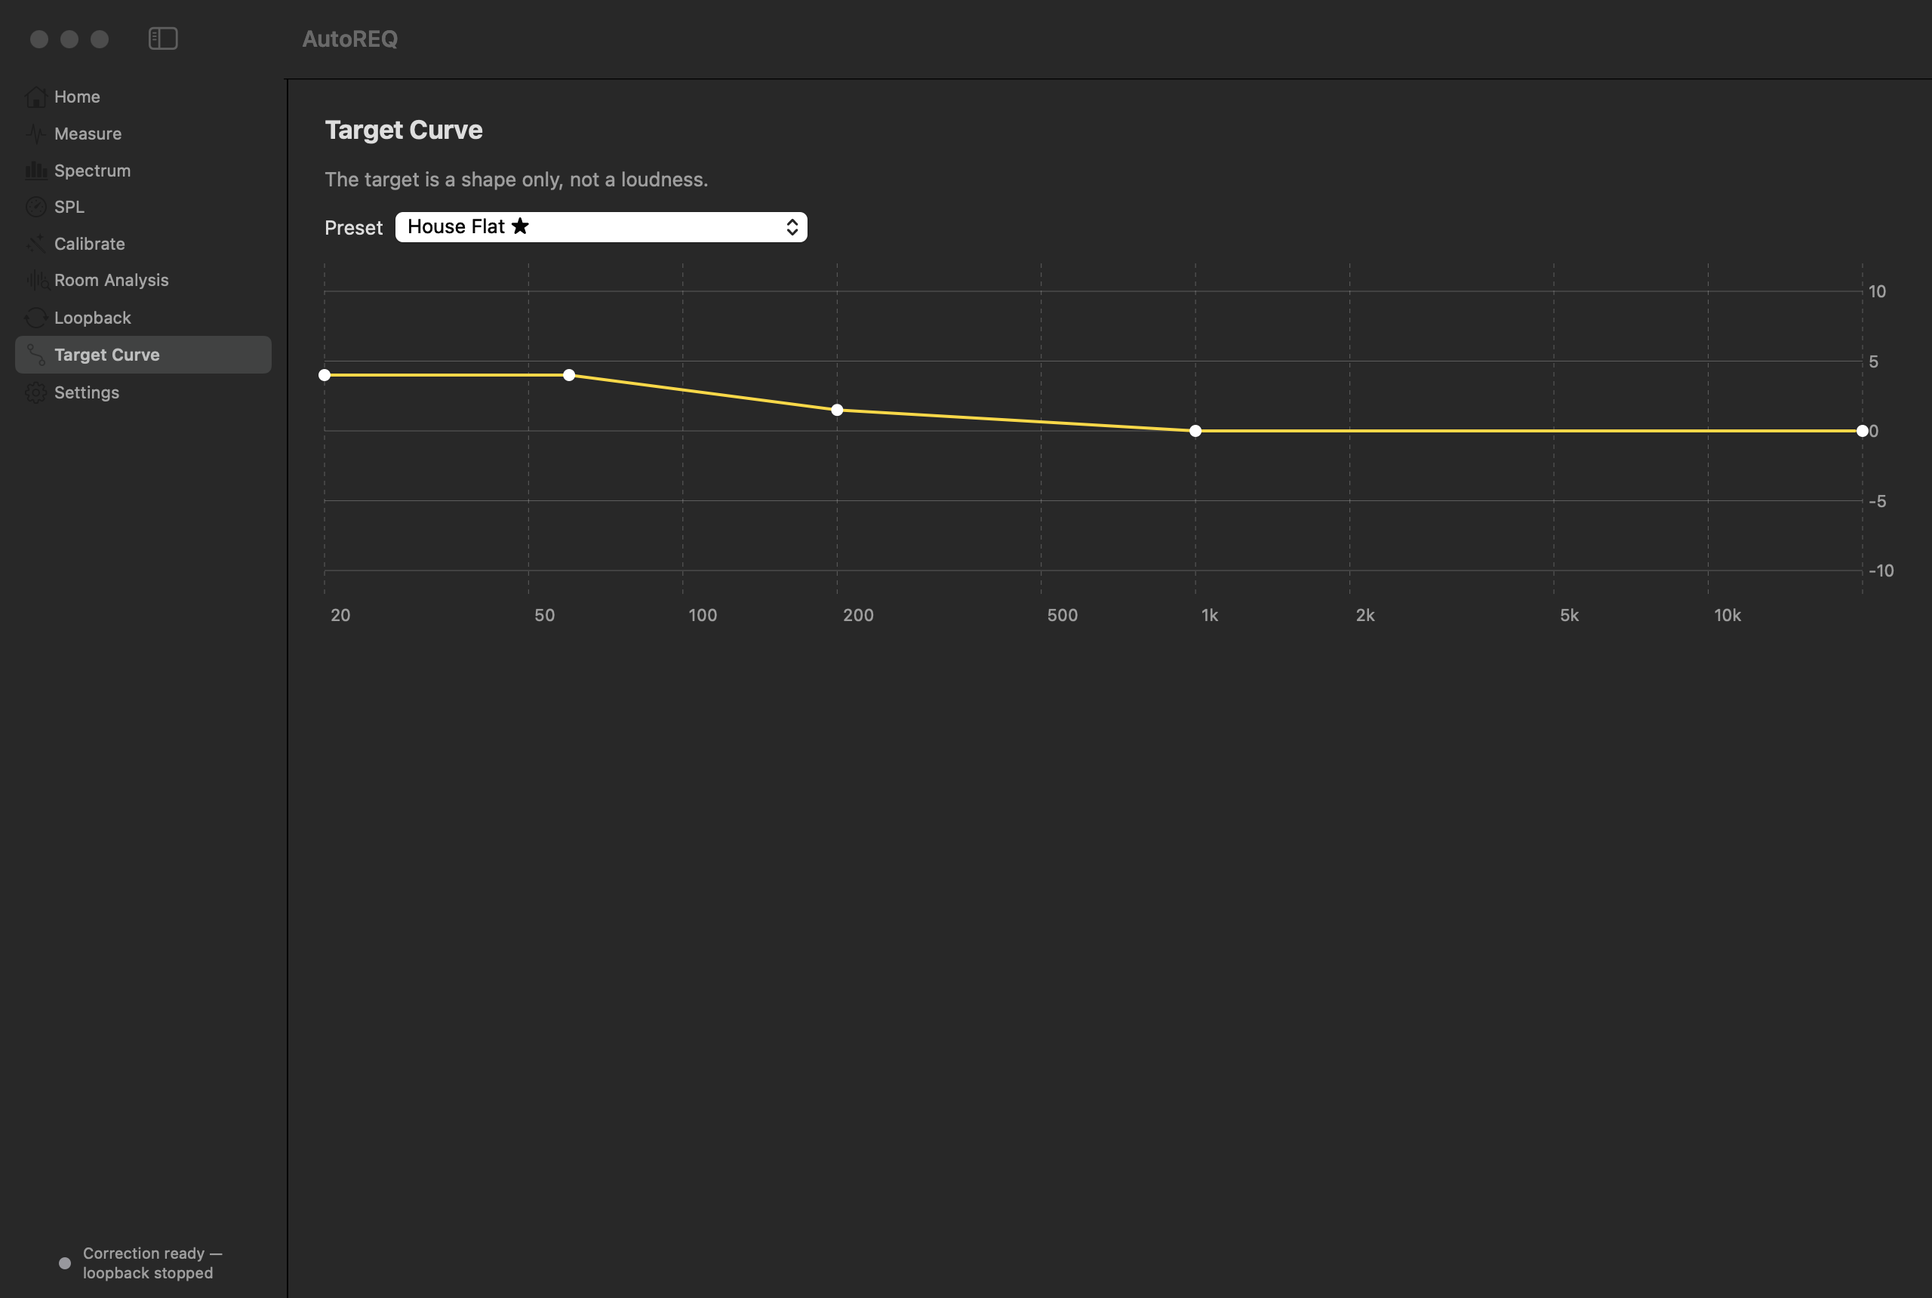
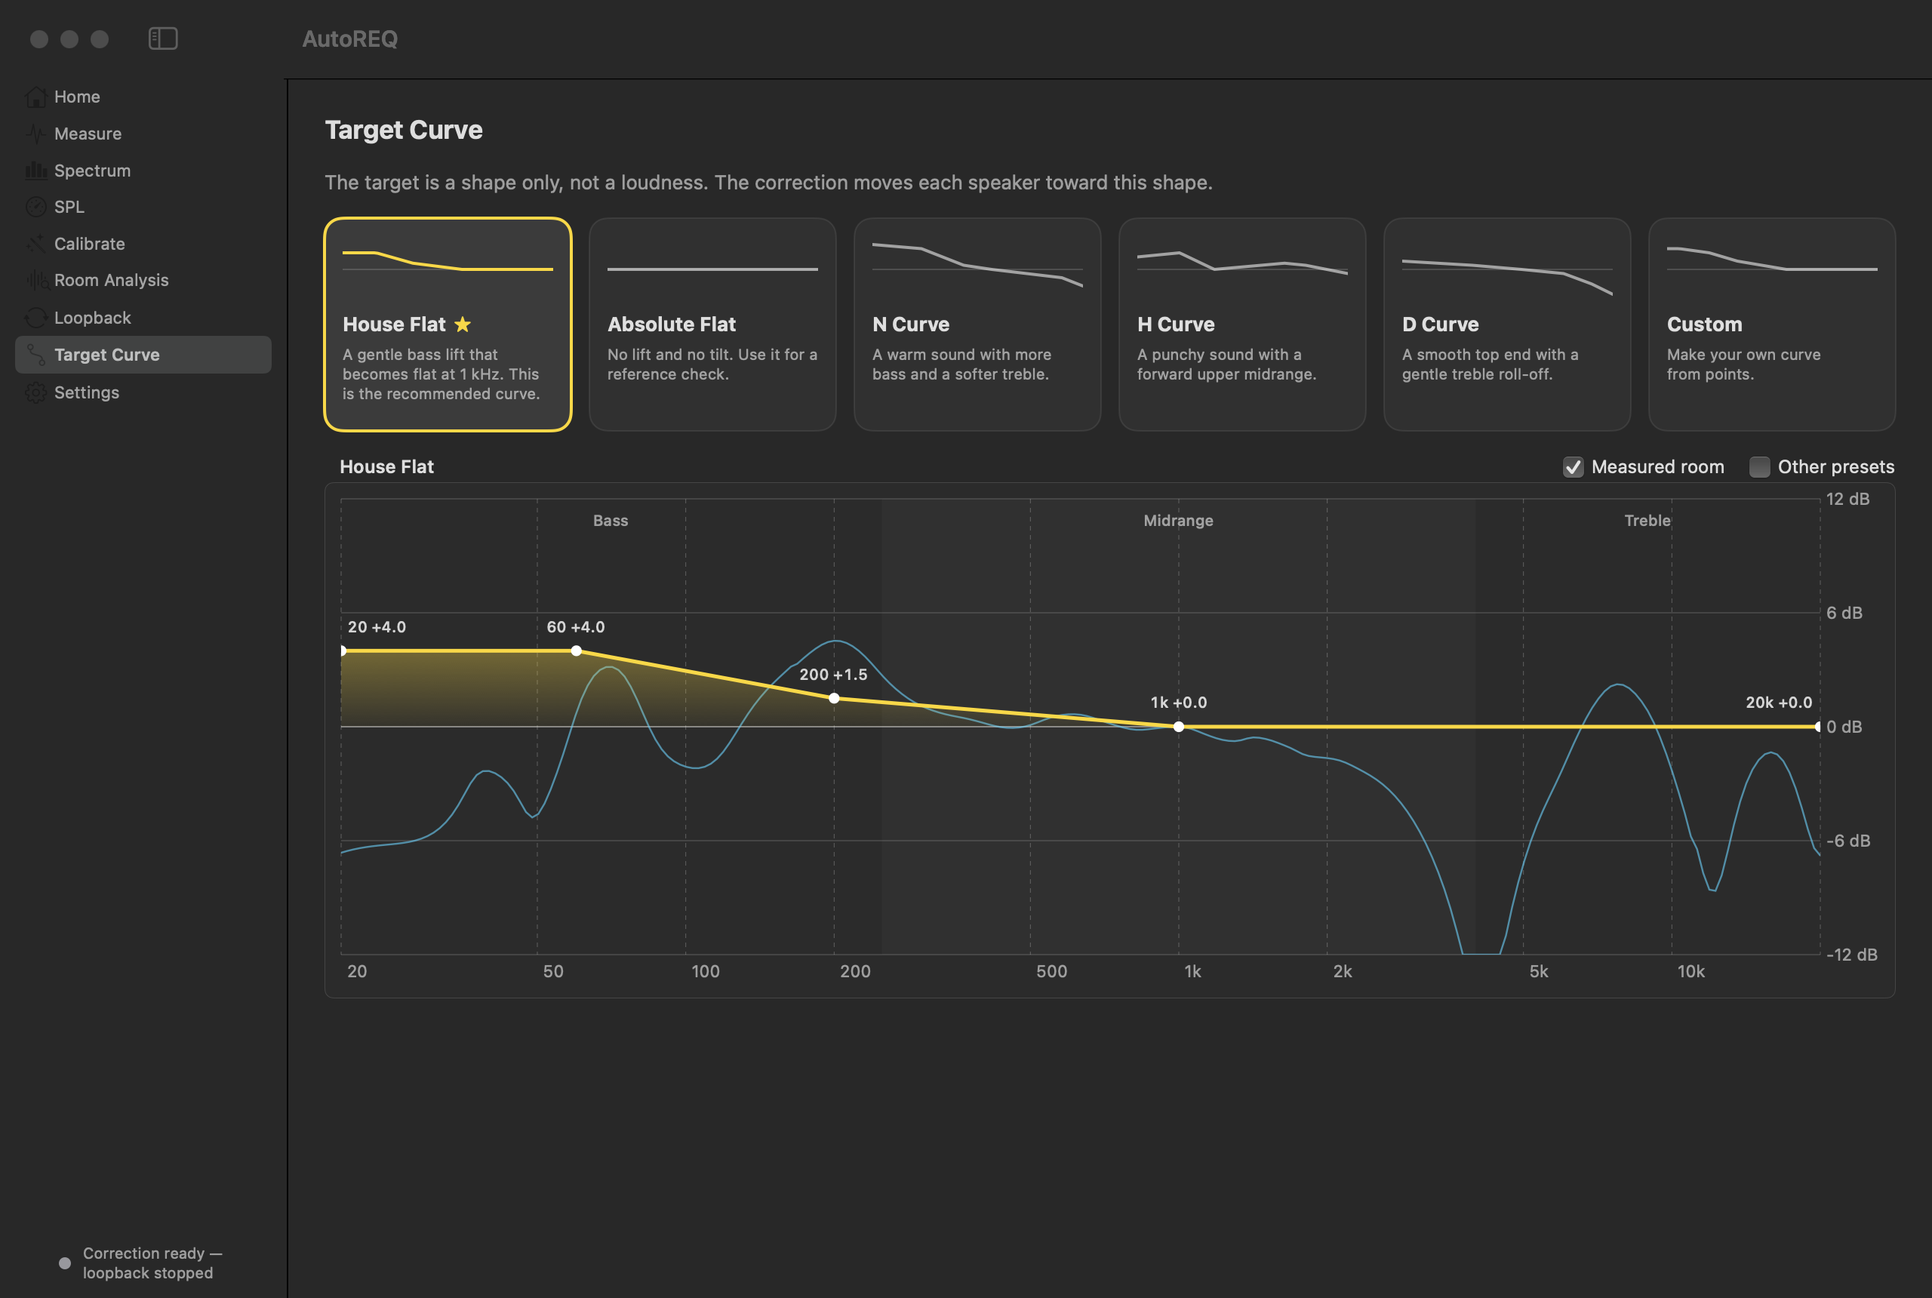
Improve the target curve screen
The Target Curve screen shows the presets as cards with a small preview of each curve.
The chart fills the area under the curve, marks the bass, the midrange and the treble,
and labels each point. It can show the measured room of the last calibration and the
other presets.

The user can drag the points of the custom curve. The app keeps the custom points
when the user selects a preset.

diff --git a/Sources/AutoREQ/Views/TargetCurveView.swift b/Sources/AutoREQ/Views/TargetCurveView.swift
@@ -1,0 +1,255 @@
+import AutoREQCore
+import Charts
+import SwiftUI
+
+/// The target curve: a gallery of the presets, a large chart and the editor of the custom curve.
+struct TargetCurveView: View {
+    @Environment(AppModel.self) private var model
+    @State private var showPresets = false
+    @State private var showRoom = true
+    @State private var dragID: UUID?
+
+    private static let notes: [String: String] = [
+        "House Flat": "A gentle bass lift that becomes flat at 1 kHz. This is the recommended curve.",
+        "Absolute Flat": "No lift and no tilt. Use it for a reference check.",
+        "N Curve": "A warm sound with more bass and a softer treble.",
+        "H Curve": "A punchy sound with a forward upper midrange.",
+        "D Curve": "A smooth top end with a gentle treble roll-off.",
+        "Custom": "Make your own curve from points.",
+    ]
+
+    /// The regions of the chart background. The labels help a user who does not read frequencies.
+    private static let regions: [(name: String, range: ClosedRange<Double>)] = [("Bass", 20...250), ("Midrange", 250...4000), ("Treble", 4000...20_000)]
+
+    private var target: TargetCurve { model.state.target }
+    private var isCustom: Bool { target.name == "Custom" }
+
+    var body: some View {
+        ScrollView {
+            VStack(alignment: .leading, spacing: 16) {
+                Text("Target Curve").font(.title2.bold())
+                Text("The target is a shape only, not a loudness. The correction moves each speaker toward this shape.")
+                    .foregroundStyle(.secondary)
+                gallery
+                chartBox
+                if isCustom { editor }
+            }
+            .padding(24)
+        }
+    }
+
+    // MARK: - Gallery
+
+    private var gallery: some View {
+        LazyVGrid(columns: [GridItem(.adaptive(minimum: 150), spacing: 12)], spacing: 12) {
+            ForEach(TargetCurve.presets + [isCustom ? target : TargetCurve.custom]) { t in
+                let selected = t.name == target.name
+                Button {
+                    if t.name == "Custom" && !isCustom { model.state.target = model.state.customTarget ?? .custom } else if !selected { model.state.target = t }
+                } label: {
+                    VStack(alignment: .leading, spacing: 6) {
+                        Sparkline(curve: t, color: selected ? .yellow : .secondary).frame(height: 44)
+                        HStack(spacing: 4) {
+                            Text(t.name).bold()
+                            if t == .houseFlat { Image(systemName: "star.fill").font(.caption).foregroundStyle(.yellow) }
+                        }
+                        Text(Self.notes[t.name] ?? "").font(.caption).foregroundStyle(.secondary)
+                            .multilineTextAlignment(.leading).fixedSize(horizontal: false, vertical: true)
+                        Spacer(minLength: 0)
+                    }
+                    .padding(12)
+                    .frame(maxWidth: .infinity, minHeight: 130, alignment: .topLeading)
+                    .background(.white.opacity(selected ? 0.09 : 0.04), in: RoundedRectangle(cornerRadius: 12))
+                    .overlay(RoundedRectangle(cornerRadius: 12).stroke(selected ? Color.yellow : .white.opacity(0.08), lineWidth: selected ? 2 : 1))
+                }
+                .buttonStyle(.plain)
+            }
+        }
+    }
+
+    // MARK: - Chart
+
+    private struct CurvePoint: Identifiable {
+        var id: String { "\(series)-\(frequency)" }
+        var series: String
+        var frequency: Double
+        var gain: Double
+    }
+
+    private static let frequencies: [Double] = (0...240).map { 20 * pow(1000, Double($0) / 240) }
+
+    /// The measured system response before the correction, 1/3-octave smoothed, with 0 dB at 1 kHz.
+    private var room: [CurvePoint] {
+        guard showRoom, let r = model.state.result?.systemBefore else { return [] }
+        let s = Smoothing.oct3.apply(r)
+        let ref = s.magnitudeDB[FrequencyGrid.index(of: 1000)]
+        return Self.frequencies.map { CurvePoint(series: "Room", frequency: $0, gain: s.magnitudeDB[FrequencyGrid.index(of: $0)] - ref) }
+    }
+
+    private var chartBox: some View {
+        let curve = Self.frequencies.map { CurvePoint(series: "Target", frequency: $0, gain: target.gain(at: $0)) }
+        let others = showPresets ? TargetCurve.presets.filter { $0.name != target.name }.flatMap { p in
+            Self.frequencies.map { CurvePoint(series: p.name, frequency: $0, gain: p.gain(at: $0)) }
+        } : []
+        let roomPoints = room
+        return GroupBox {
+            Chart {
+                ForEach(Self.regions, id: \.name) { r in
+                    RectangleMark(xStart: .value("Hz", r.range.lowerBound), xEnd: .value("Hz", r.range.upperBound), yStart: .value("dB", -12), yEnd: .value("dB", 12))
+                        .foregroundStyle(.white.opacity(r.name == "Midrange" ? 0.025 : 0.0))
+                        .annotation(position: .overlay, alignment: .top) {
+                            Text(r.name).font(.caption2).foregroundStyle(.secondary).padding(.top, 4)
+                        }
+                }
+                RuleMark(y: .value("dB", 0)).foregroundStyle(.white.opacity(0.35)).lineStyle(StrokeStyle(lineWidth: 1))
+                ForEach(roomPoints) { p in
+                    LineMark(x: .value("Hz", p.frequency), y: .value("dB", max(min(p.gain, 12), -12)), series: .value("Curve", "Room"))
+                        .foregroundStyle(.cyan.opacity(0.6)).lineStyle(StrokeStyle(lineWidth: 1.2))
+                }
+                ForEach(others) { p in
+                    LineMark(x: .value("Hz", p.frequency), y: .value("dB", p.gain), series: .value("Curve", p.series))
+                        .foregroundStyle(.white.opacity(0.3)).lineStyle(StrokeStyle(lineWidth: 1, dash: [4, 3]))
+                }
+                ForEach(curve) { p in
+                    AreaMark(x: .value("Hz", p.frequency), yStart: .value("dB", 0), yEnd: .value("dB", p.gain))
+                        .foregroundStyle(LinearGradient(colors: [.yellow.opacity(0.35), .yellow.opacity(0.05)], startPoint: .top, endPoint: .bottom))
+                    LineMark(x: .value("Hz", p.frequency), y: .value("dB", p.gain), series: .value("Curve", "Target"))
+                        .foregroundStyle(.yellow).lineStyle(StrokeStyle(lineWidth: 2.5, lineCap: .round))
+                }
+                ForEach(target.points) { p in
+                    // A label at an end of the axis aligns inward, so the plot edge does not cut it.
+                    let edge: HorizontalAlignment = p.frequency <= 25 ? .leading : p.frequency >= 16_000 ? .trailing : .center
+                    PointMark(x: .value("Hz", p.frequency), y: .value("dB", p.gainDB))
+                        .symbolSize(isCustom ? 90 : 40)
+                        .foregroundStyle(p.id == dragID ? .yellow : .white)
+                        .annotation(position: p.gainDB >= 0 ? .top : .bottom, alignment: Alignment(horizontal: edge, vertical: .center), spacing: 6) {
+                            Text("\(Self.hz(p.frequency)) \(String(format: "%+.1f", p.gainDB))")
+                                .font(.caption2.monospacedDigit()).foregroundStyle(.white.opacity(0.8))
+                                .offset(x: edge == .leading ? 8 : edge == .trailing ? -8 : 0)
+                        }
+                }
+            }
+            .chartXScale(domain: 20...20_000, type: .log)
+            .chartYScale(domain: -12...12)
+            .chartXAxis { ResponseChart.frequencyAxis }
+            .chartYAxis { AxisMarks(values: [-12, -6, 0, 6, 12]) { v in AxisGridLine(); AxisValueLabel { if let d = v.as(Double.self) { Text("\(Int(d)) dB") } } } }
+            .chartPlotStyle { $0.clipped() }
+            .chartOverlay { proxy in dragLayer(proxy) }
+            .frame(height: 320)
+            .padding(6)
+        } label: {
+            HStack(spacing: 16) {
+                Text(target.name).bold()
+                Spacer()
+                Toggle("Measured room", isOn: $showRoom).disabled(model.state.result?.systemBefore == nil)
+                    .help("Shows the system response before the correction, from the last calibration, with 0 dB at 1 kHz.")
+                Toggle("Other presets", isOn: $showPresets)
+            }
+            .font(.callout)
+        }
+    }
+
+    /// Lets the user drag the points of the custom curve. The nearest point within 30 pt moves.
+    private func dragLayer(_ proxy: ChartProxy) -> some View {
+        GeometryReader { geo in
+            Rectangle().fill(.clear).contentShape(Rectangle())
+                .gesture(DragGesture(minimumDistance: 0)
+                    .onChanged { v in
+                        guard let frame = proxy.plotFrame else { return }
+                        let origin = geo[frame].origin
+                        let loc = CGPoint(x: v.location.x - origin.x, y: v.location.y - origin.y)
+                        if dragID == nil {
+                            dragID = target.points.min { distance($0, loc, proxy) < distance($1, loc, proxy) }
+                                .flatMap { distance($0, loc, proxy) < 30 ? $0.id : nil }
+                        }
+                        guard let id = dragID, let i = model.state.target.points.firstIndex(where: { $0.id == id }),
+                              let f: Double = proxy.value(atX: loc.x), let g: Double = proxy.value(atY: loc.y) else { return }
+                        model.state.target.points[i].frequency = Self.round3(min(max(f, 20), 20_000))
+                        model.state.target.points[i].gainDB = (min(max(g, -12), 12) * 2).rounded() / 2
+                        model.state.customTarget = model.state.target
+                    }
+                    .onEnded { _ in dragID = nil }, including: isCustom ? .all : .none)
+        }
+    }
+
+    private func distance(_ p: TargetCurve.Point, _ loc: CGPoint, _ proxy: ChartProxy) -> CGFloat {
+        guard let x = proxy.position(forX: p.frequency), let y = proxy.position(forY: p.gainDB) else { return .infinity }
+        return hypot(x - loc.x, y - loc.y)
+    }
+
+    // MARK: - Editor
+
+    private var editor: some View {
+        @Bindable var model = model
+        return GroupBox {
+            VStack(alignment: .leading, spacing: 6) {
+                Grid(alignment: .leading, horizontalSpacing: 14, verticalSpacing: 6) {
+                    GridRow { Text("Frequency"); Text("Gain"); Text("") }.font(.caption.bold()).foregroundStyle(.secondary)
+                    ForEach(target.points.sorted { $0.frequency < $1.frequency }) { p in
+                        if let i = model.state.target.points.firstIndex(where: { $0.id == p.id }) {
+                            GridRow {
+                                HStack(spacing: 4) {
+                                    TextField("Hz", value: $model.state.target.points[i].frequency, format: .number.precision(.significantDigits(1...4)))
+                                        .frame(width: 80).multilineTextAlignment(.trailing)
+                                    Text("Hz").foregroundStyle(.secondary)
+                                }
+                                HStack {
+                                    Slider(value: $model.state.target.points[i].gainDB, in: TargetCurve.gainRange, step: 0.5).frame(width: 220)
+                                    Text(String(format: "%+.1f dB", p.gainDB)).monospacedDigit().frame(width: 64, alignment: .trailing)
+                                }
+                                Button { model.state.target.points.removeAll { $0.id == p.id } } label: { Image(systemName: "minus.circle") }
+                                    .buttonStyle(.plain).disabled(target.points.count <= 2)
+                            }
+                        }
+                    }
+                }
+                HStack {
+                    Button("Add Point") { model.state.target.points.append(.init(1000, 0)) }
+                    Menu("Start from") {
+                        ForEach(TargetCurve.presets) { p in
+                            Button(p.name) { model.state.target = TargetCurve(name: "Custom", points: p.points.map { .init($0.frequency, $0.gainDB) }) }
+                        }
+                    }
+                    .fixedSize()
+                    Spacer()
+                    Text("Drag a point in the chart, or type a value.").font(.caption).foregroundStyle(.secondary)
+                }
+            }
+            .padding(6)
+        } label: { Text("Custom points") }
+        .onChange(of: model.state.target) { if isCustom { model.state.customTarget = model.state.target } }
+    }
+
+    // MARK: - Format
+
+    static func hz(_ f: Double) -> String { f >= 1000 ? String(format: f >= 10_000 ? "%.0fk" : "%.3gk", f / 1000) : String(format: "%.0f", f) }
+
+    /// Rounds to 3 significant digits, so a dragged point shows 125 Hz and not 124.37 Hz.
+    static func round3(_ f: Double) -> Double {
+        let e = pow(10, floor(log10(f)) - 2)
+        return (f / e).rounded() * e
+    }
+}
+
+/// A small preview of a target curve from 20 Hz to 20 kHz, with the 0 dB line.
+struct Sparkline: View {
+    let curve: TargetCurve
+    let color: Color
+
+    var body: some View {
+        Canvas { ctx, size in
+            let y = { (g: Double) in size.height / 2 - CGFloat(g / 8) * size.height / 2 }
+            var zero = Path()
+            zero.move(to: CGPoint(x: 0, y: y(0)))
+            zero.addLine(to: CGPoint(x: size.width, y: y(0)))
+            ctx.stroke(zero, with: .color(.white.opacity(0.15)), lineWidth: 1)
+            var p = Path()
+            for k in 0...60 {
+                let f = 20 * pow(1000, Double(k) / 60)
+                let pt = CGPoint(x: size.width * CGFloat(k) / 60, y: y(max(min(curve.gain(at: f), 8), -8)))
+                if k == 0 { p.move(to: pt) } else { p.addLine(to: pt) }
+            }
+            ctx.stroke(p, with: .color(color), style: StrokeStyle(lineWidth: 2, lineCap: .round, lineJoin: .round))
+        }
+    }
+}

diff --git a/Sources/AutoREQ/Views/OtherViews.swift b/Sources/AutoREQ/Views/OtherViews.swift
@@ -65,55 +65,6 @@ struct LoopbackView: View {
     }
 }
 
-struct TargetCurveView: View {
-    @Environment(AppModel.self) private var model
-
-    var body: some View {
-        @Bindable var model = model
-        VStack(alignment: .leading, spacing: 14) {
-            Text("Target Curve").font(.title2.bold())
-            Text("The target is a shape only, not a loudness.").foregroundStyle(.secondary)
-            Picker("Preset", selection: Binding(get: { model.state.target.name }, set: { name in
-                if let p = TargetCurve.presets.first(where: { $0.name == name }) { model.state.target = p }
-                else { var c = model.state.target; c.name = "Custom"; model.state.target = c }
-            })) {
-                ForEach(TargetCurve.presets) { Text($0.name + ($0 == .houseFlat ? " ★" : "")).tag($0.name) }
-                Text("Custom").tag("Custom")
-            }
-            .frame(width: 320)
-            Chart {
-                ForEach(Array(stride(from: 0, to: FrequencyGrid.count, by: 4)).filter { (20...20_000).contains(FrequencyGrid.frequencies[$0]) }, id: \.self) { i in
-                    LineMark(x: .value("Hz", FrequencyGrid.frequencies[i]), y: .value("dB", model.state.target.gain(at: FrequencyGrid.frequencies[i])))
-                        .foregroundStyle(.yellow)
-                }
-                ForEach(model.state.target.points) { p in
-                    PointMark(x: .value("Hz", p.frequency), y: .value("dB", p.gainDB)).foregroundStyle(.white)
-                }
-            }
-            .chartXScale(domain: 20...20_000, type: .log)
-            .chartYScale(domain: -12...12)
-            .chartXAxis { ResponseChart.frequencyAxis }
-            .frame(height: 240)
-            if model.state.target.name == "Custom" {
-                VStack(alignment: .leading) {
-                    ForEach($model.state.target.points) { $p in
-                        HStack {
-                            TextField("Hz", value: $p.frequency, format: .number).frame(width: 90)
-                            Text("Hz")
-                            Stepper(String(format: "%+.1f dB", p.gainDB), value: $p.gainDB, in: TargetCurve.gainRange, step: 0.5)
-                            Button { model.state.target.points.removeAll { $0.id == p.id } } label: { Image(systemName: "xmark") }
-                                .disabled(model.state.target.points.count <= 2)
-                        }
-                    }
-                    Button("+ Add point") { model.state.target.points.append(.init(1000, 0)) }
-                }
-            }
-            Spacer()
-        }
-        .padding(24)
-    }
-}
-
 struct SettingsView: View {
     @Environment(AppModel.self) private var model
     @State private var confirmReset = false

diff --git a/Sources/AutoREQ/Model/AppModel.swift b/Sources/AutoREQ/Model/AppModel.swift
@@ -149,6 +149,8 @@ struct PersistedState: Codable {
     var timerStored: CaptureTimer?
     var splStored: SPLSettings?
     var areasStored: [ListeningArea]?
+    /// The last custom target curve, so a preset choice does not lose the custom points.
+    var customTarget: TargetCurve?
     /// The I/O buffer size in frames. Nil keeps the size of the device.
     var bufferFrames: Int?
     /// The space plan of the Complete Measurement mode. The first area is the main area.

diff --git a/README.md b/README.md
@@ -37,9 +37,11 @@ The Loopback screen sets the devices, the volume and the trim of each speaker.
 
 ![The Loopback screen with the volume controls](docs/screenshots/loopback.png)
 
-The Target Curve screen shows the selected preset or your custom curve.
+The Target Curve screen shows the presets as cards and the selected curve in a large chart. The
+chart can also show the measured room and the other presets. You can drag the points of the
+custom curve.
 
-![The Target Curve screen with the House Flat preset](docs/screenshots/target-curve.png)
+![The Target Curve screen with the preset cards and the House Flat curve over the measured room](docs/screenshots/target-curve.png)
 
 ## Features
 

diff --git a/CHANGELOG.md b/CHANGELOG.md
@@ -1,5 +1,12 @@
 # Changelog
 
+## v1.8.1
+
+- The Target Curve screen shows the presets as cards with a small preview of each curve.
+- The chart fills the area under the curve and marks the bass, the midrange and the treble.
+- The chart can show the measured room of the last calibration and the other presets.
+- You can drag the points of the custom curve. The custom points stay when you select a preset.
+
 ## v1.8.0
 
 - The new Remote tab in Settings starts a local web viewer and a JSON API. The server is off by default.
